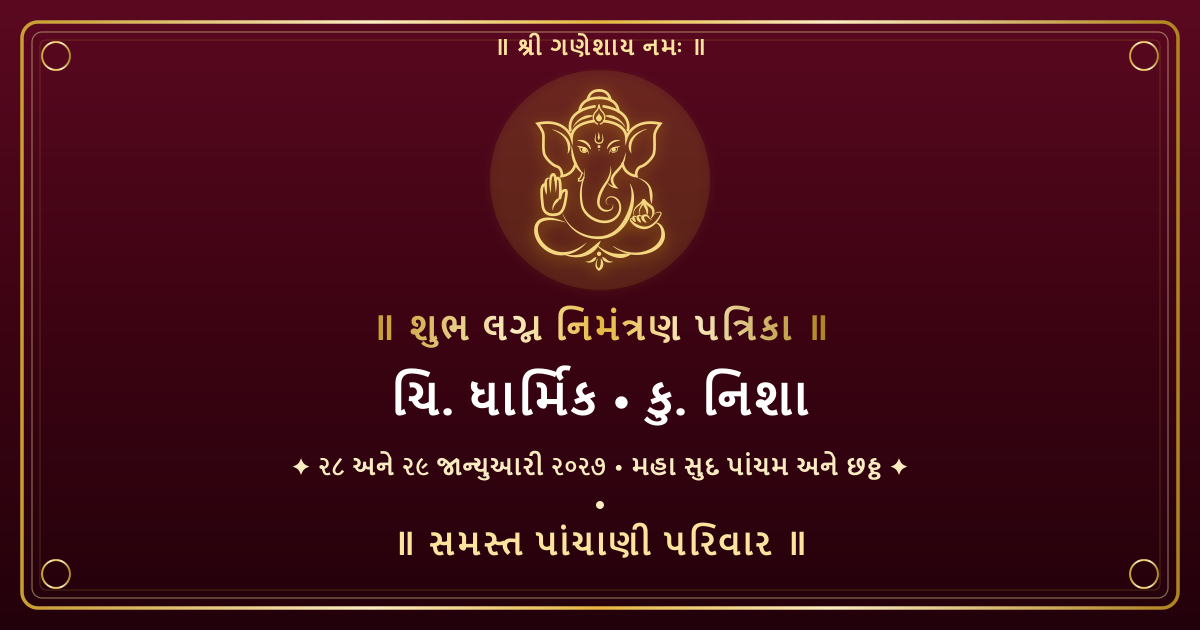
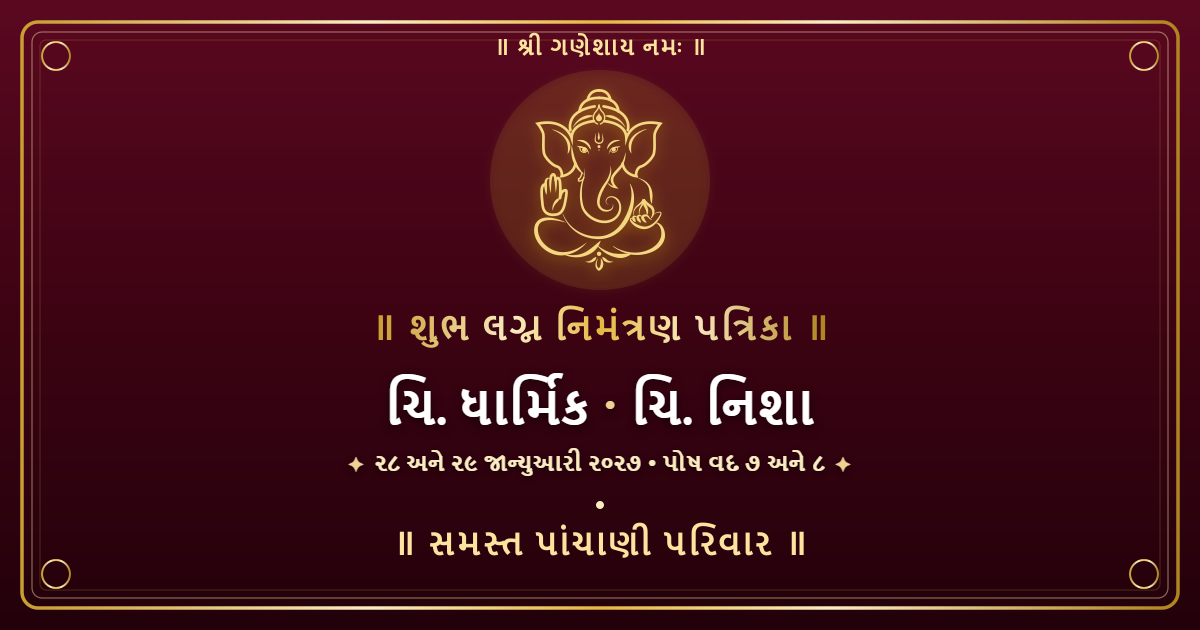
added

Changed region(s): [[0.3083, 0.573, 0.6783, 0.6937], [0.2467, 0.7238, 0.7708, 0.754]]

diff --git a/index.html b/index.html
@@ -33,8 +33,8 @@
     <meta property="og:title" content="॥ શુભ લગ્ન નિમંત્રણ ॥ ચિ. ધાર્મિક &amp; ચિ. નિશા | પાંચાણી પરિવાર">
     <meta property="og:description"
         content="॥ શ્રી ગણેશાય નમઃ ॥ ૨૮ અને ૨૯ જાન્યુઆરી ૨૦૨૭ ના શુભ અવસરે આપશ્રીને સહપરિવાર પધારવા અમારું હાર્દિક અને ભાવભર્યું નિમંત્રણ છે. • પાંચાણી પરિવાર">
-    <meta property="og:image" content="https://dharmikpanchani.github.io/panchaniweds/media/og_ganesha.png">
-    <meta property="og:image:secure_url" content="https://dharmikpanchani.github.io/panchaniweds/media/og_ganesha.png">
+    <meta property="og:image" content="https://dharmikpanchani.github.io/panchaniweds/media/og_ganesha.png?v=47">
+    <meta property="og:image:secure_url" content="https://dharmikpanchani.github.io/panchaniweds/media/og_ganesha.png?v=47">
     <meta property="og:image:type" content="image/png">
     <meta property="og:image:width" content="1200">
     <meta property="og:image:height" content="630">
@@ -43,7 +43,7 @@
     <meta property="og:locale" content="gu_IN">
 
     <!-- WhatsApp Thumbnail Link -->
-    <link rel="image_src" href="https://dharmikpanchani.github.io/panchaniweds/media/og_ganesha.png">
+    <link rel="image_src" href="https://dharmikpanchani.github.io/panchaniweds/media/og_ganesha.png?v=47">
 
     <!-- Twitter / X Social Sharing -->
     <meta name="twitter:card" content="summary_large_image">
@@ -51,7 +51,7 @@
     <meta name="twitter:title" content="॥ શુભ લગ્ન નિમંત્રણ ॥ ચિ. ધાર્મિક &amp; ચિ. નિશા | પાંચાણી પરિવાર">
     <meta name="twitter:description"
         content="॥ શ્રી ગણેશાય નમઃ ॥ ૨૮ અને ૨૯ જાન્યુઆરી ૨૦૨૭ - અમારા આંગણે રૂડા અવસરના વધામણાં છે. પાંચાણી પરિવાર.">
-    <meta name="twitter:image" content="https://dharmikpanchani.github.io/panchaniweds/media/og_ganesha.png">
+    <meta name="twitter:image" content="https://dharmikpanchani.github.io/panchaniweds/media/og_ganesha.png?v=47">
 
     <!-- WhatsApp Theme Color & Mobile Headers -->
     <meta name="theme-color" content="#4a021e">
@@ -1170,11 +1170,11 @@
                             <span class="ry-tahuko-dot"> • </span>
                             <span class="ry-tahuko-name">ક્રિષ્ના</span>
                             <span class="ry-tahuko-dot"> • </span>
-                            <span class="ry-tahuko-name">ભાગ્યશ્રી</span>
-                            <span class="ry-tahuko-dot"> • </span>
-                            <span class="ry-tahuko-name">ધૃતિ</span>
-                            <span class="ry-tahuko-dot"> • </span>
                             <span class="ry-tahuko-name">તૃપ્તિ</span>
+                            <span class="ry-tahuko-dot"> • </span>
+                            <span class="ry-tahuko-name">શ્રુતિ</span>
+                            <span class="ry-tahuko-dot"> • </span>
+                            <span class="ry-tahuko-name">આયુષી</span>
                         </div>
                     </div>
 

diff --git a/public/index.html b/public/index.html
@@ -33,8 +33,8 @@
     <meta property="og:title" content="॥ શુભ લગ્ન નિમંત્રણ ॥ ચિ. ધાર્મિક &amp; ચિ. નિશા | પાંચાણી પરિવાર">
     <meta property="og:description"
         content="॥ શ્રી ગણેશાય નમઃ ॥ ૨૮ અને ૨૯ જાન્યુઆરી ૨૦૨૭ ના શુભ અવસરે આપશ્રીને સહપરિવાર પધારવા અમારું હાર્દિક અને ભાવભર્યું નિમંત્રણ છે. • પાંચાણી પરિવાર">
-    <meta property="og:image" content="https://dharmikpanchani.github.io/panchaniweds/media/og_ganesha.png">
-    <meta property="og:image:secure_url" content="https://dharmikpanchani.github.io/panchaniweds/media/og_ganesha.png">
+    <meta property="og:image" content="https://dharmikpanchani.github.io/panchaniweds/media/og_ganesha.png?v=47">
+    <meta property="og:image:secure_url" content="https://dharmikpanchani.github.io/panchaniweds/media/og_ganesha.png?v=47">
     <meta property="og:image:type" content="image/png">
     <meta property="og:image:width" content="1200">
     <meta property="og:image:height" content="630">
@@ -43,7 +43,7 @@
     <meta property="og:locale" content="gu_IN">
 
     <!-- WhatsApp Thumbnail Link -->
-    <link rel="image_src" href="https://dharmikpanchani.github.io/panchaniweds/media/og_ganesha.png">
+    <link rel="image_src" href="https://dharmikpanchani.github.io/panchaniweds/media/og_ganesha.png?v=47">
 
     <!-- Twitter / X Social Sharing -->
     <meta name="twitter:card" content="summary_large_image">
@@ -51,7 +51,7 @@
     <meta name="twitter:title" content="॥ શુભ લગ્ન નિમંત્રણ ॥ ચિ. ધાર્મિક &amp; ચિ. નિશા | પાંચાણી પરિવાર">
     <meta name="twitter:description"
         content="॥ શ્રી ગણેશાય નમઃ ॥ ૨૮ અને ૨૯ જાન્યુઆરી ૨૦૨૭ - અમારા આંગણે રૂડા અવસરના વધામણાં છે. પાંચાણી પરિવાર.">
-    <meta name="twitter:image" content="https://dharmikpanchani.github.io/panchaniweds/media/og_ganesha.png">
+    <meta name="twitter:image" content="https://dharmikpanchani.github.io/panchaniweds/media/og_ganesha.png?v=47">
 
     <!-- WhatsApp Theme Color & Mobile Headers -->
     <meta name="theme-color" content="#4a021e">
@@ -1170,11 +1170,11 @@
                             <span class="ry-tahuko-dot"> • </span>
                             <span class="ry-tahuko-name">ક્રિષ્ના</span>
                             <span class="ry-tahuko-dot"> • </span>
-                            <span class="ry-tahuko-name">ભાગ્યશ્રી</span>
-                            <span class="ry-tahuko-dot"> • </span>
-                            <span class="ry-tahuko-name">ધૃતિ</span>
-                            <span class="ry-tahuko-dot"> • </span>
                             <span class="ry-tahuko-name">તૃપ્તિ</span>
+                            <span class="ry-tahuko-dot"> • </span>
+                            <span class="ry-tahuko-name">શ્રુતિ</span>
+                            <span class="ry-tahuko-dot"> • </span>
+                            <span class="ry-tahuko-name">આયુષી</span>
                         </div>
                     </div>
 

diff --git a/config.js b/config.js
@@ -393,7 +393,7 @@
       enabled: true,
       tahukoLead: ':: ટહુકો ::',
       tahukoPoem: 'એક મીઠા પ્રસંગનું અમૂલ્ય આમંત્રણ લઈને આવ્યા છીએ,\nપ્રેમ અને લાગણીના સ્નેહભર્યા ભાવ લઈને આવ્યા છીએ.\n\nઆમ તો કંકોત્રી દ્વારા આમંત્રણ આપીએ છીએ,\nપણ આપને રૂબરૂ મળીને ભાવભેર તેડવા આવ્યા છીએ.',
-      tahukoNames: ['હેમાંગી', 'ક્રિષ્ના', 'ભાગ્યશ્રી', 'ધૃતિ', 'તૃપ્તિ'],
+      tahukoNames: ['હેમાંગી', 'ક્રિષ્ના', 'તૃપ્તિ', 'શ્રુતિ', 'આયુષી'],
       avsarLead: 'અવસરનું આંગણું',
       nimantrakLead: ':: નિમંત્રક ::',
       nimantrakHost: 'શ્રી મુકેશભાઈ જેરામભાઈ પાંચાણી',

diff --git a/public/config.js b/public/config.js
@@ -393,7 +393,7 @@
       enabled: true,
       tahukoLead: ':: ટહુકો ::',
       tahukoPoem: 'એક મીઠા પ્રસંગનું અમૂલ્ય આમંત્રણ લઈને આવ્યા છીએ,\nપ્રેમ અને લાગણીના સ્નેહભર્યા ભાવ લઈને આવ્યા છીએ.\n\nઆમ તો કંકોત્રી દ્વારા આમંત્રણ આપીએ છીએ,\nપણ આપને રૂબરૂ મળીને ભાવભેર તેડવા આવ્યા છીએ.',
-      tahukoNames: ['હેમાંગી', 'ક્રિષ્ના', 'ભાગ્યશ્રી', 'ધૃતિ', 'તૃપ્તિ'],
+      tahukoNames: ['હેમાંગી', 'ક્રિષ્ના', 'તૃપ્તિ', 'શ્રુતિ', 'આયુષી'],
       avsarLead: 'અવસરનું આંગણું',
       nimantrakLead: ':: નિમંત્રક ::',
       nimantrakHost: 'શ્રી મુકેશભાઈ જેરામભાઈ પાંચાણી',

diff --git a/public/pwa.js b/public/pwa.js
@@ -30,7 +30,7 @@
       if ('caches' in window) {
         caches.keys().then(function (names) {
           names.forEach(function (name) {
-            if (name !== 'panchani-wedding-v46') {
+            if (name !== 'panchani-wedding-v49') {
               caches.delete(name);
             }
           });

diff --git a/pwa.js b/pwa.js
@@ -30,7 +30,7 @@
       if ('caches' in window) {
         caches.keys().then(function (names) {
           names.forEach(function (name) {
-            if (name !== 'panchani-wedding-v46') {
+            if (name !== 'panchani-wedding-v49') {
               caches.delete(name);
             }
           });

diff --git a/public/sw.js b/public/sw.js
@@ -1,5 +1,5 @@
 // Service Worker for Panchani Royal Wedding PWA
-const CACHE_NAME = 'panchani-wedding-v46';
+const CACHE_NAME = 'panchani-wedding-v49';
 const PRECACHE_ASSETS = [
   './',
   './index.html',

diff --git a/sw.js b/sw.js
@@ -1,5 +1,5 @@
 // Service Worker for Panchani Royal Wedding PWA
-const CACHE_NAME = 'panchani-wedding-v46';
+const CACHE_NAME = 'panchani-wedding-v49';
 const PRECACHE_ASSETS = [
   './',
   './index.html',
